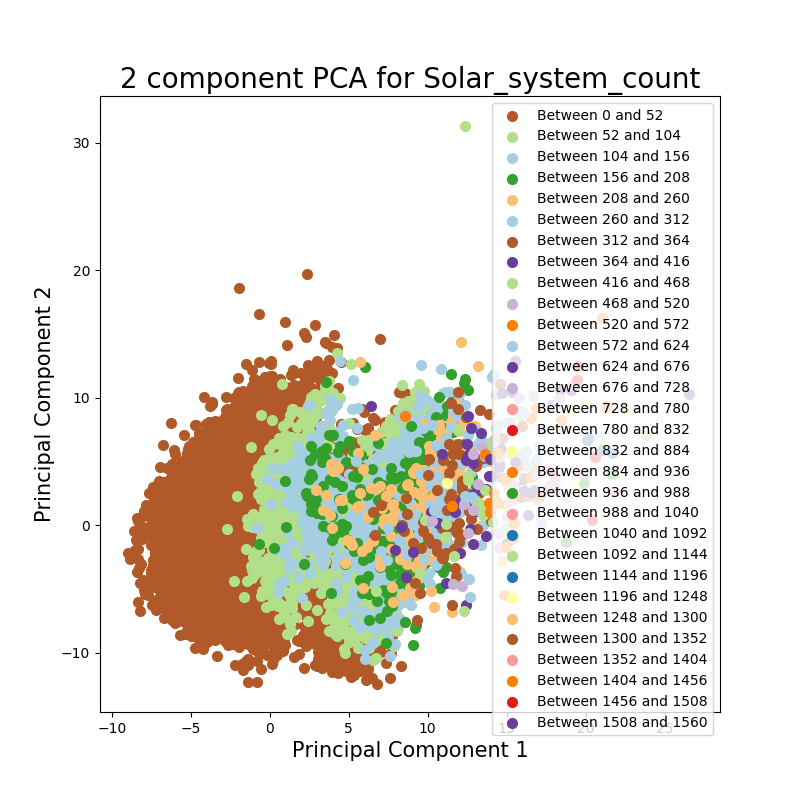
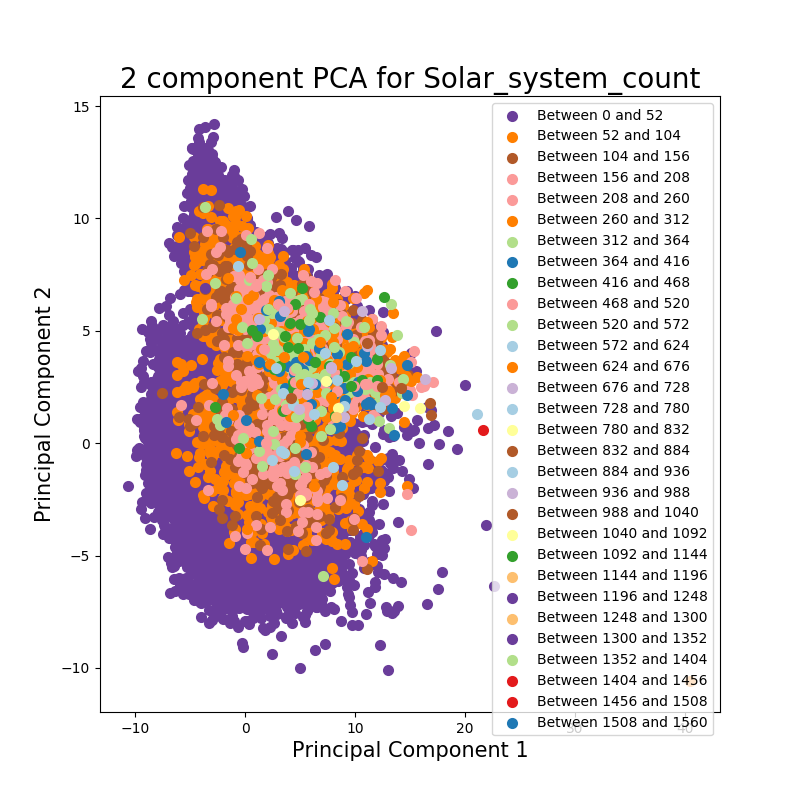
Updated the label vs data column split

diff --git a/src/data_processing/pca.py b/src/data_processing/pca.py
@@ -14,8 +14,8 @@ PLOT_DIR = '../output_plots'
 def pca_main(train_set, train_labels, test_set, test_labels):
     print("Scaling data")
     sc = StandardScaler()
-    train_set.drop(columns=['index'], inplace=True)
-    test_set.drop(columns=['index'], inplace=True)
+    # train_set.drop(columns=['index'], inplace=True)
+    # test_set.drop(columns=['index'], inplace=True)
     x_train = sc.fit_transform(train_set)
     x_test = sc.transform(test_set)
 

diff --git a/src/data_processing/parse_csv.py b/src/data_processing/parse_csv.py
@@ -180,7 +180,7 @@ def get_df_from_csv(csv_path, partial_data=None):
         print(f"Shuffling data with seed {seed}")
         d_matrix = shuffle(d_matrix, random_state=seed)
 
-        labels_matrix = d_matrix.ix[:, 1:4]
+        labels_matrix = d_matrix.ix[:, 0:3]
         print(labels_matrix.head())
         print(d_matrix.head())
         d_matrix = d_matrix.drop(['tile_count', 'solar_system_count', 'total_panel_area'], axis=1)
